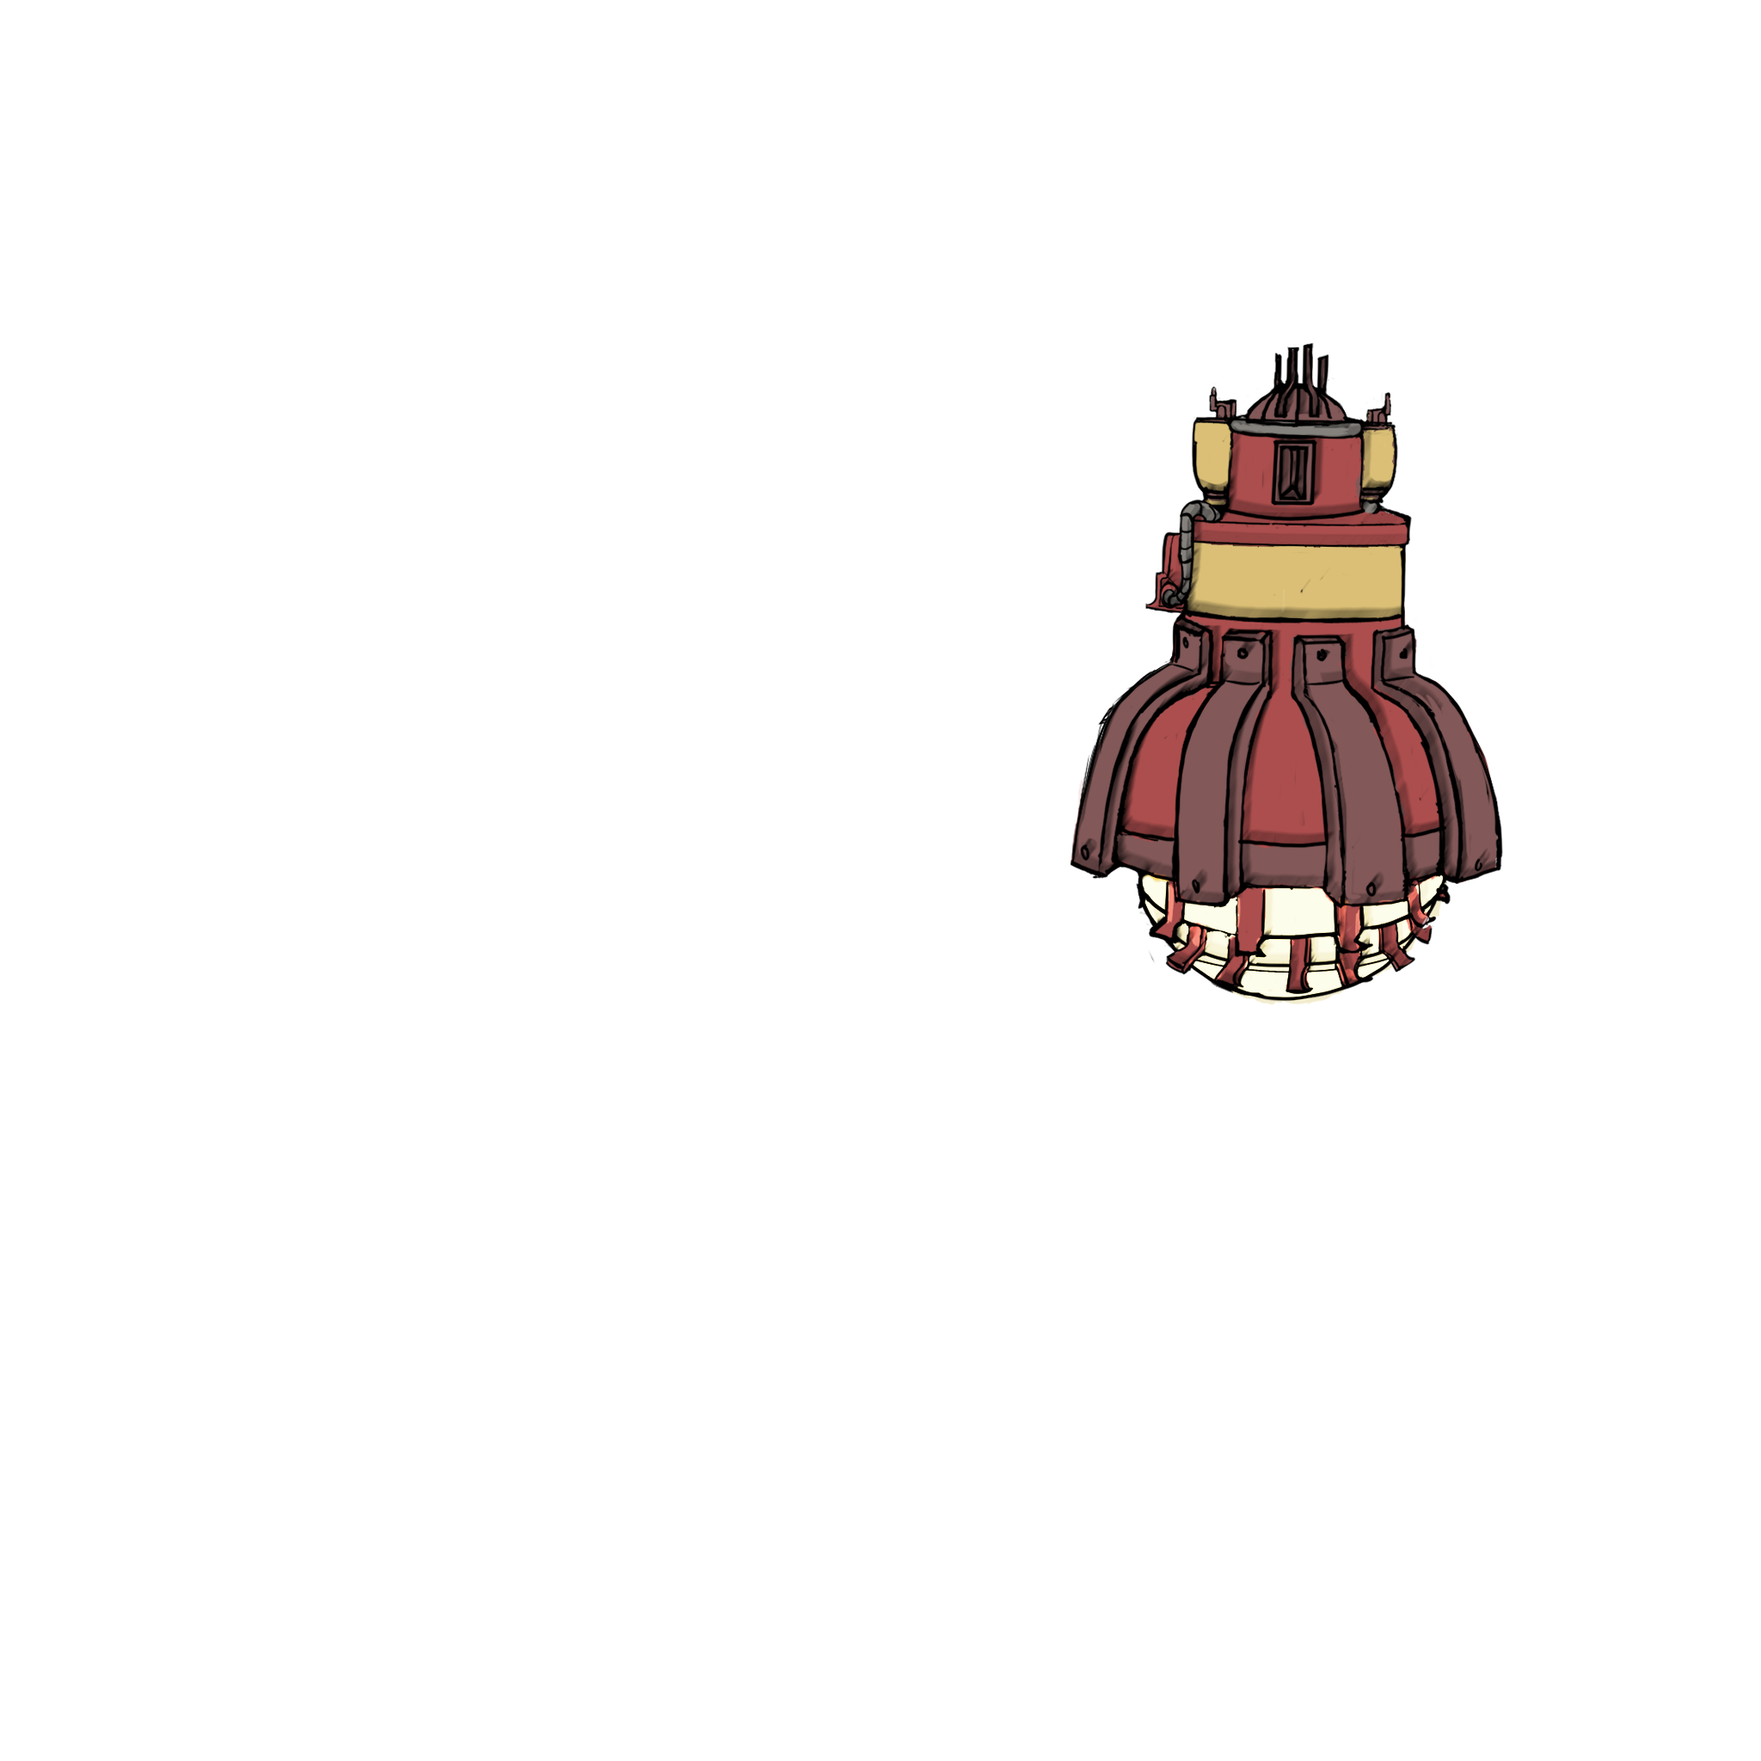
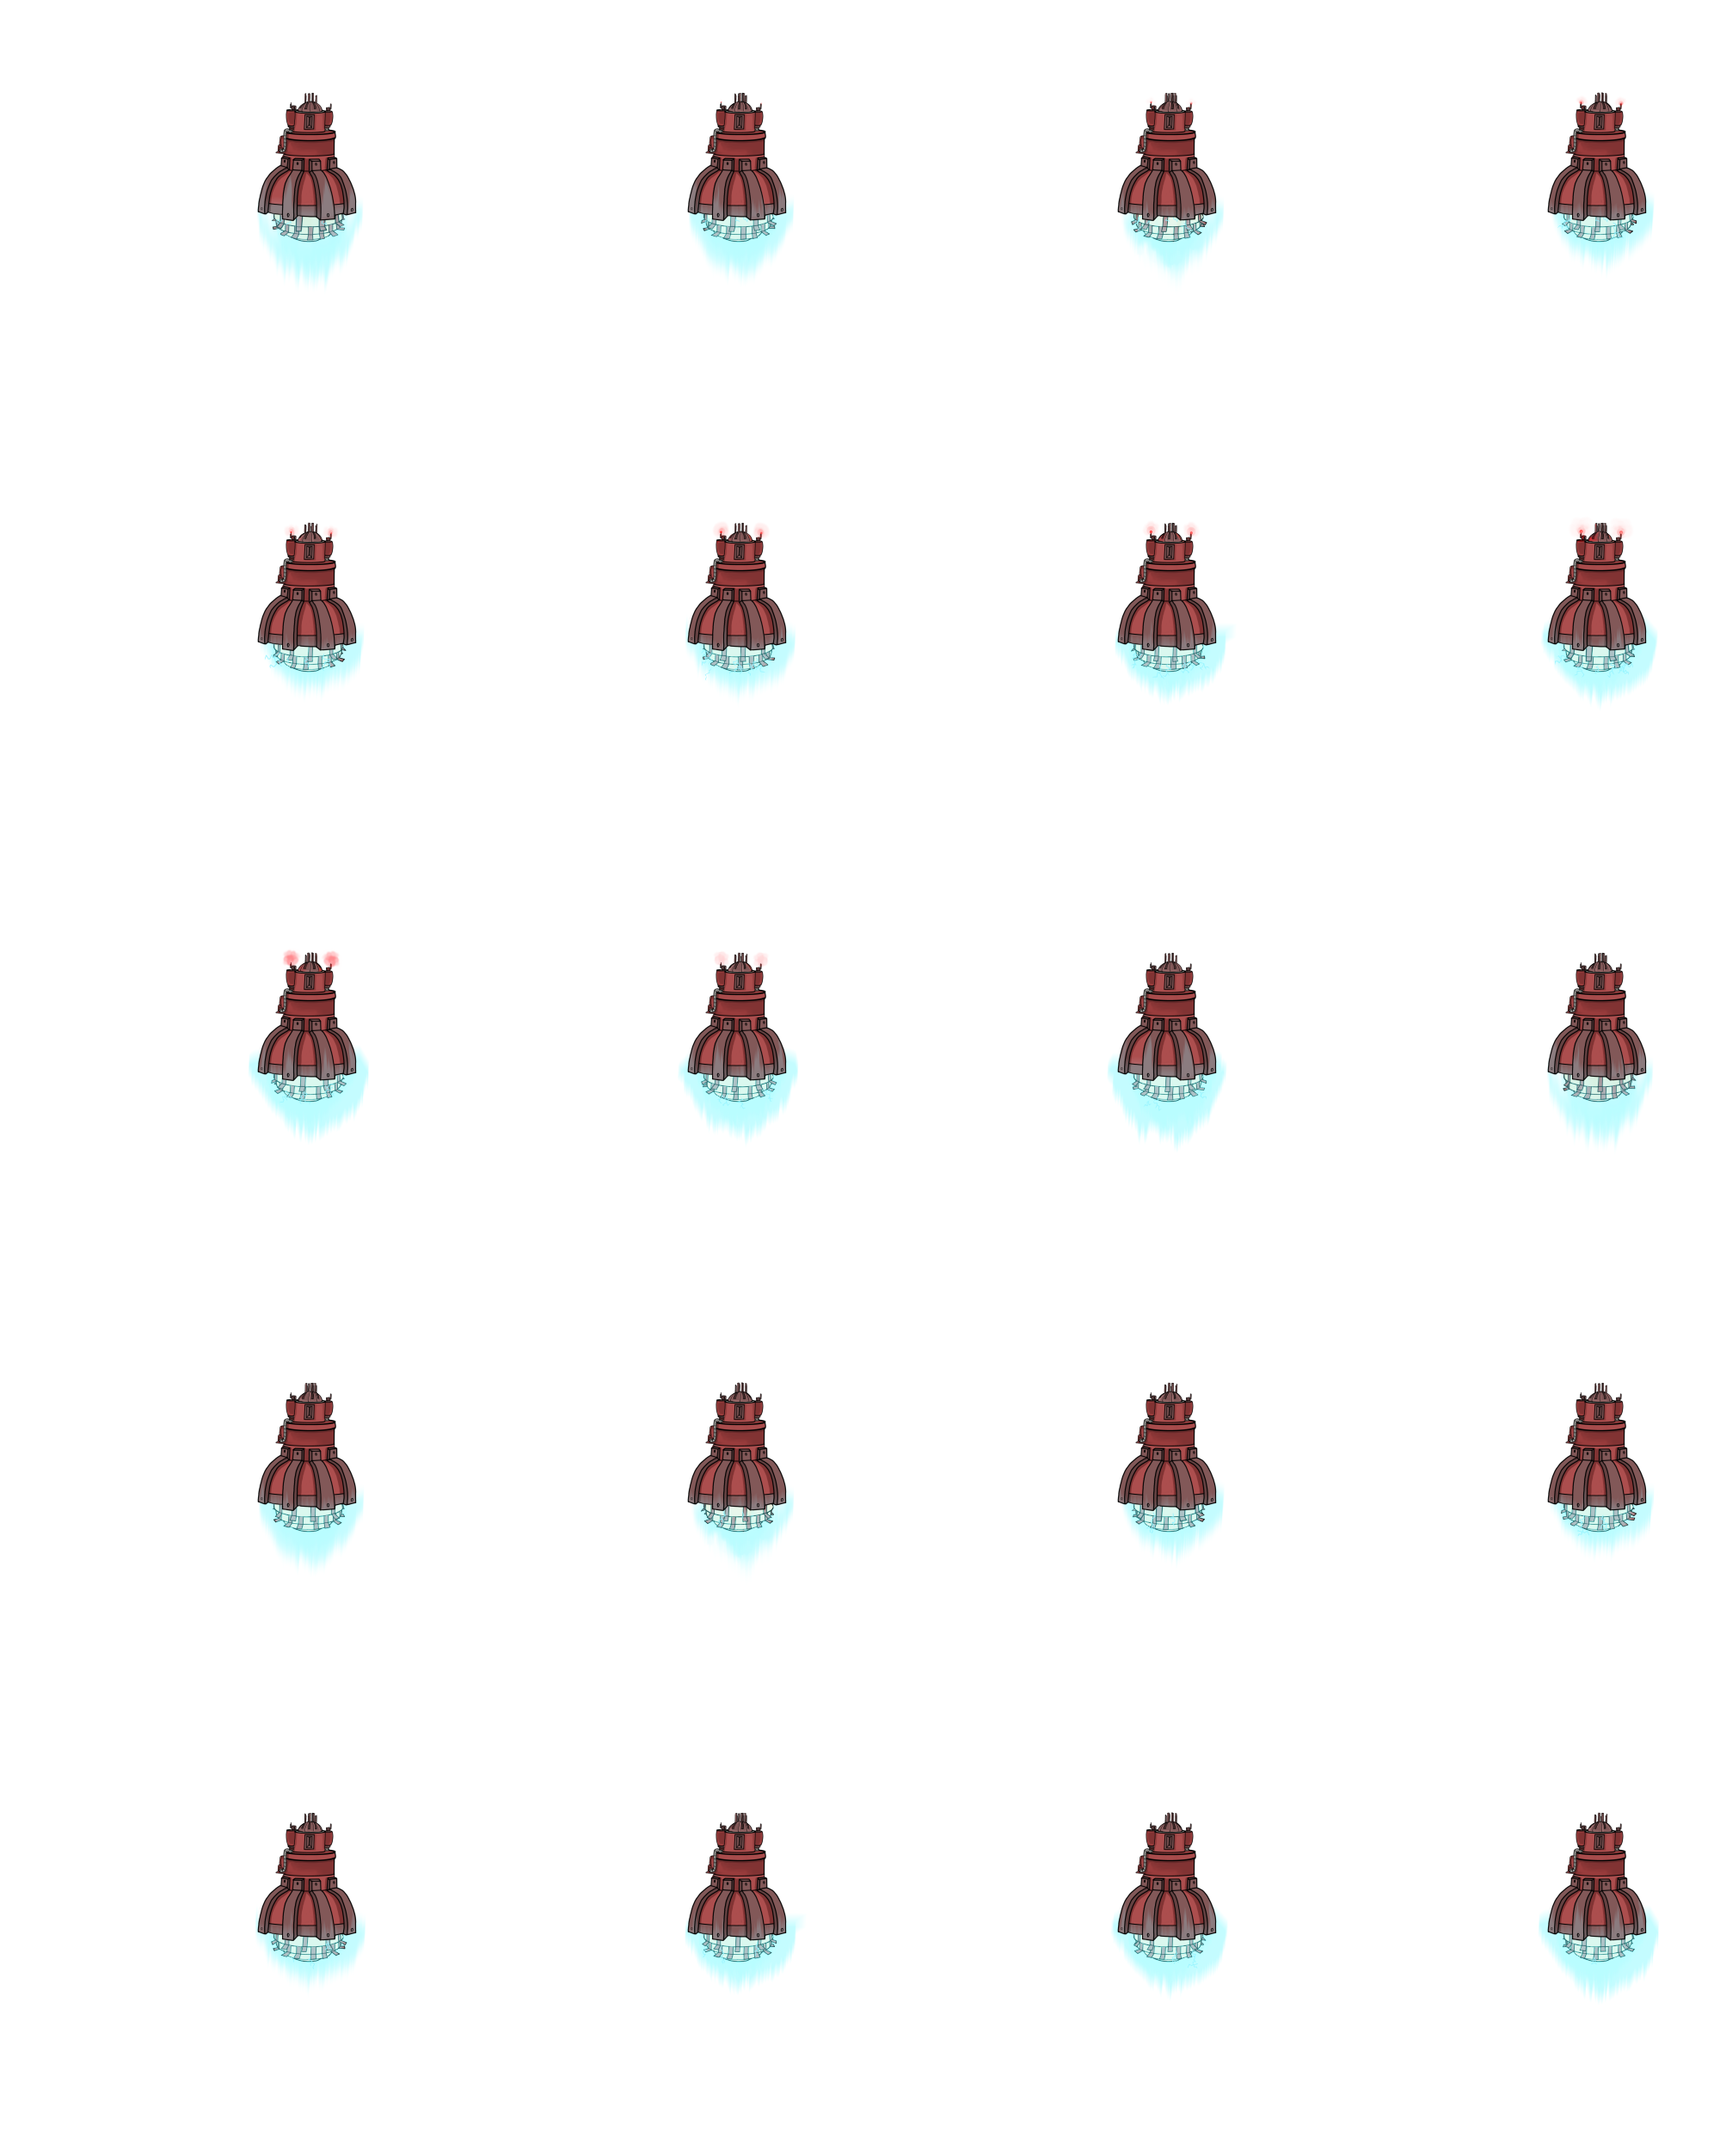
added: Upgrade ship animation

diff --git a/src/app/ship/ship-view/ship.ts b/src/app/ship/ship-view/ship.ts
@@ -1,14 +1,15 @@
 import * as PIXI from 'pixi.js';
+import { getFramesFromSpriteSheet } from '../../loadAnimation';
 class UpgradeShip {
-    tabUpgrade = [];
     posX: number;
     posY: number;
     scaleX: number;
     scaleY: number;
     currentLevel: number;
+    tabAnimation: PIXI.extras.AnimatedSprite[];
 
-    constructor(lvl: number, tabSprite, posx: number, posy: number, scalx: number, scaly: number) {
-        this.tabUpgrade = tabSprite;
+    constructor(lvl: number, tabAnimation, posx: number, posy: number, scalx: number, scaly: number) {
+        this.tabAnimation = tabAnimation;
         this.posX = posx;
         this.posY = posy;
         this.scaleX = scalx;
@@ -17,63 +18,88 @@ class UpgradeShip {
     }
 
     spriteAdd(newlvl: number) {
-        if (newlvl === 0  ||  (newlvl <= 5 ? 1 : Math.floor(newlvl / 5) + 1) === this.currentLevel) {
+        const lvlModulo = newlvl; // ; (newlvl <= 5 ? 1 : Math.floor(newlvl / 5) + 1);
+        if (newlvl === 0 || lvlModulo === this.currentLevel) {
             return null;
         }
+        this.currentLevel = lvlModulo;
 
-        this.currentLevel = newlvl <= 5 ? 1 : Math.floor(newlvl / 5) + 1;
-        const upg = this.tabUpgrade[this.currentLevel - 1];
-        upg.texture.baseTexture.mipmap = true;
-        upg.scale.set(this.scaleX, this.scaleY);
-        upg.anchor.set(0.5);
-        return upg;
+        for (let i = 0 ; i < this.currentLevel + 1 ; i++) {
+            if (!this.tabAnimation[i]) {
+                break;
+            }
+            this.tabAnimation[i].visible = true;
+        }
     }
 }
 
 export class Ship {
-    ship: PIXI.Sprite;
+    ship: PIXI.extras.AnimatedSprite;
     app: PIXI.Application;
 
     radarUpgrade: UpgradeShip;
     currentLevelRadar: number;
+    smokeRadarUpgrade: UpgradeShip;
 
     stockUpgrade: UpgradeShip;
     currentLevelStock: number;
 
-    constructor(x: number , y: number, app: PIXI.Application) {
+    constructor(app: PIXI.Application) {
         this.app = app;
-        this.ship = PIXI.Sprite.fromImage('assets/vaisseau_part1.png');
-        this.ship.texture.baseTexture.mipmap = true;
-        this.ship.anchor.set(0.5);
-        this.ship.scale.set(x, y);
 
-        this.ship.x = this.app.renderer.width / 2;
-        this.ship.y = this.app.renderer.height / 2;
-        this.app.stage.addChild(this.ship);
+        this.initShip('ship', 500, 500);
 
         this.currentLevelRadar = 0;
-        this.radarUpgrade = this.initTabSprite(3, 'assets/upgrade/shipRadar_', this.currentLevelRadar);
-        this.autoUpgrade(0, this.radarUpgrade);
+        this.radarUpgrade = this.initTabSprite(5, 'shipRadar_', this.currentLevelRadar, 500, 500, -20, 0);
+        this.smokeRadarUpgrade = this.initTabSprite(7, 'smoke_', this.currentLevelRadar, 500, 500, -20, 0);
 
         this.currentLevelStock = 0;
-        this.stockUpgrade = this.initTabSprite(3, 'assets/upgrade/shipStock_', this.currentLevelStock);
-        this.autoUpgrade(0, this.stockUpgrade);
+        this.stockUpgrade = this.initTabSprite(7, 'shipStock_', this.currentLevelStock, 500, 500, 30, 0);
+
     }
 
     // init sprite for upgrade ship
-    initTabSprite(nbMaxSprite: number, nameSprite: string, lvl: number) {
+    initTabSprite(nbMaxSprite: number, nameSprite: string, lvl: number, width: number,
+         height: number, decalagex: number, decalagey: number) {
         const temp = [];
-        for (let i = 0; i < nbMaxSprite ; i++) {
-            temp.push(PIXI.Sprite.fromImage(nameSprite + (i + 1) + '.png'));
+        for (let i = 0; i < nbMaxSprite; i++) {
+            temp.push(this.spritesheetAnimation(nameSprite + (i + 1), width, height, decalagex, decalagey));
         }
         return new UpgradeShip(lvl, temp, 1, 1, 1, 1);
     }
 
     // manage the upgrade when the level change
     autoUpgrade(lvl: number, tab: UpgradeShip) {
-        const sprite = tab.spriteAdd(lvl);
-        if (sprite) {
-            this.ship.addChild(sprite);
-        }
+         tab.spriteAdd(lvl);
     }
+
+    spritesheetAnimation(spriteName: string, width: number, height: number, decalagex: number, decalagey: number) {
+        const spriteAnim = new PIXI.extras.AnimatedSprite(getFramesFromSpriteSheet(
+            PIXI.loader.resources[spriteName].texture, width, height));
+        spriteAnim.gotoAndPlay(0);
+        spriteAnim.animationSpeed = 0.24;
+        spriteAnim.visible = false;
+        spriteAnim.anchor.set(0.5);
+
+        spriteAnim.x = this.app.renderer.width / 2  + decalagex;
+        spriteAnim.y = this.app.renderer.height / 2 + decalagey;
+        this.app.stage.addChild(spriteAnim);
+        return spriteAnim;
+    }
+
+    initShip(spriteName: string, width: number, height: number) {
+        this.ship = new PIXI.extras.AnimatedSprite(getFramesFromSpriteSheet(
+            PIXI.loader.resources[spriteName].texture, width, height));
+        this.ship.gotoAndPlay(0);
+        this.ship.animationSpeed = 0.10;
+        this.ship.visible = true;
+        this.ship.texture.baseTexture.mipmap = true;
+        this.ship.anchor.set(0.5);
+
+        this.ship.x = this.app.renderer.width / 2 - 20;
+        this.ship.y = this.app.renderer.height / 2 ;
+
+        this.app.stage.addChild(this.ship);
+    }
+
 }

diff --git a/src/app/loadAnimation.ts b/src/app/loadAnimation.ts
@@ -1,0 +1,58 @@
+export function getFramesFromSpriteSheet(texture: PIXI.Texture, frameWidth: number, frameHeight: number) {
+    const frames = [];
+    for (let j = 0; j < texture.height - frameHeight; j += frameHeight) {
+        for (let i = 0; i < texture.width - frameWidth; i += frameWidth) {
+            frames.push(new PIXI.Texture(texture.baseTexture, new PIXI.Rectangle(i, j, frameWidth, frameHeight)));
+        }
+    }
+    return frames;
+}
+
+
+export class LoadAnimation {
+    public boolFinishLoad = false;
+    tabKeyName: String[];
+    tabSpriteName: String[];
+
+    constructor() {
+        this.tabKeyName = new Array<String>();
+        this.tabSpriteName = new Array<String>();
+
+        // Laser
+        this.addKeySpriteName('laser', './assets/laser_(n2).png');
+        this.addKeySpriteName('ship', './assets/upgrade/ship.png');
+
+        // Stock animation
+        for (let i = 1 ; i < 8 ; i++) {
+            this.addKeySpriteName('shipStock_' + i, './assets/upgrade/shipStock_' + i + '.png');
+        }
+
+        // Radar animation
+        for (let i = 1 ; i < 6 ; i++) {
+            this.addKeySpriteName('shipRadar_' + i, './assets/upgrade/shipRadar_' + i + '.png');
+        }
+
+          // smoke animation
+          for (let i = 1 ; i < 8 ; i++) {
+            this.addKeySpriteName('smoke_' + i, './assets/upgrade/smoke' + i + '.png');
+        }
+
+        this.onAssetsLoaded();
+    }
+
+    // Add keyname and Sprite name to the loader
+    private addKeySpriteName(keyname: string, spritename: string) {
+        this.tabKeyName.push(keyname);
+        this.tabSpriteName.push(spritename);
+    }
+
+    // Load the loader for animation
+    private onAssetsLoaded() {
+        for (let i = 0 ; i < this.tabKeyName.length; i++) {
+            PIXI.loader.add(this.tabKeyName[i], this.tabSpriteName[i]);
+        }
+        PIXI.loader.load((loader, resources) => {
+            this.boolFinishLoad = true;
+        });
+    }
+}

diff --git a/src/app/asteroid/asteroid-view/drone.ts b/src/app/asteroid/asteroid-view/drone.ts
@@ -1,9 +1,10 @@
 import * as PIXI from 'pixi.js';
+import { getFramesFromSpriteSheet } from '../../loadAnimation';
 
 export class Drone {
     drone: PIXI.Sprite;
     app: PIXI.Application;
-    public laser : PIXI.extras.AnimatedSprite;
+    public laser: PIXI.extras.AnimatedSprite;
     laserFirstState:boolean;
 
     constructor(x: number , y: number, app: PIXI.Application) {
@@ -17,28 +18,12 @@ export class Drone {
         this.drone.y = this.app.renderer.height / 2 - 150;
         this.app.stage.addChild(this.drone);
 
-        this.onAssetsLoaded();
-    }
+        const laserAnim = new PIXI.extras.AnimatedSprite(getFramesFromSpriteSheet(PIXI.loader.resources['laser'].texture, 946, 964));
+        laserAnim.gotoAndPlay(0);
+        laserAnim.anchor.set(0.5, 0.04);
+        laserAnim.animationSpeed = 0.35;
+        laserAnim.visible = true;
 
-    // Animation
-    private onAssetsLoaded() {
-        PIXI.loader.add('laser', './assets/laser_(n2).png').load((loader, resources) => {
-            this.laser = new PIXI.extras.AnimatedSprite(getFramesFromSpriteSheet(resources.laser.texture, 946, 964));
-            this.laser.gotoAndPlay(0);
-            this.laser.anchor.set(0.5, 0.04);
-            this.laser.animationSpeed = 0.35;
-            this.drone.addChild(this.laser);
-            this.laser.visible=this.laserFirstState;
-        });
-
-        function getFramesFromSpriteSheet(texture, frameWidth, frameHeight) {
-            const frames = [];
-            for (let j = 0; j < texture.height - frameHeight; j += frameHeight) {
-                for (let i = 0; i < texture.width - frameWidth; i += frameWidth) {
-                    frames.push(new PIXI.Texture(texture.baseTexture, new PIXI.Rectangle(i, j, frameWidth, frameHeight)));
-                }
-            }
-            return frames;
-        }
+        this.drone.addChild(laserAnim);
     }
 }

diff --git a/src/app/app.component.ts b/src/app/app.component.ts
@@ -4,6 +4,7 @@ import { BrowserModule } from '@angular/platform-browser';
 import { UpgradeService } from './upgrade/upgrade.service';
 import { MarketService } from './market/market.service';
 import { AsteroidService } from './asteroid/asteroid.service';
+import { LoadAnimation } from './loadAnimation';
 
 @Component({
   selector: 'app-root',
@@ -13,10 +14,15 @@ import { AsteroidService } from './asteroid/asteroid.service';
 export class AppComponent {
   title = 'app';
 
-  constructor(private userS: UserService, private upgradeS: UpgradeService,
-              private marketS: MarketService, private asteroidS: AsteroidService) {}
+  loadAnimation: LoadAnimation;
 
-  public ValiderLogIn(log,pswd){
-    this.userS.LogIn(log,pswd);
+  constructor(private userS: UserService, private upgradeS: UpgradeService,
+    private marketS: MarketService, private asteroidS: AsteroidService) {
+    this.loadAnimation = new LoadAnimation();
+  }
+
+  public ValiderLogIn(log, pswd) {
+    this.userS.LogIn(log, pswd);
+
   }
 }

diff --git a/src/app/ship/ship-view/ship-view.component.ts b/src/app/ship/ship-view/ship-view.component.ts
@@ -29,14 +29,16 @@ export class ShipViewComponent implements AfterViewInit {
       background.height = this.app.renderer.height;
       this.app.stage.addChild(background);
 
-      this.ship = new Ship(0.25, 0.25, this.app);
+      this.ship = new Ship(this.app);
       // init
       this.ship.autoUpgrade(this.userS.currentUser.storageLvl, this.ship.stockUpgrade);
       this.ship.autoUpgrade(this.userS.currentUser.mineRateLvl, this.ship.radarUpgrade);
+      this.ship.autoUpgrade(this.userS.currentUser.mineRateLvl + 2, this.ship.smokeRadarUpgrade);
 
       this.userS.userSubject.subscribe( (user: User) => {
           this.ship.autoUpgrade(user.storageLvl, this.ship.stockUpgrade);
           this.ship.autoUpgrade(user.mineRateLvl, this.ship.radarUpgrade);
+          this.ship.autoUpgrade(user.mineRateLvl + 2, this.ship.smokeRadarUpgrade);
       });
 
     }

diff --git a/src/app/app.component.html b/src/app/app.component.html
@@ -4,7 +4,7 @@
 
 
 
-<div *ngIf="upgradeS && userS && userS.userLoad && upgradeS.storageLoad && upgradeS.mineRateLoad && marketS && marketS.marketLoad && asteroidS && asteroidS.asteroidLoad">
+<div *ngIf="upgradeS && userS && userS.userLoad && upgradeS.storageLoad && upgradeS.mineRateLoad && marketS && marketS.marketLoad && asteroidS && asteroidS.asteroidLoad && loadAnimation.boolFinishLoad">
     <header>
         <app-topbar></app-topbar>
       </header>
